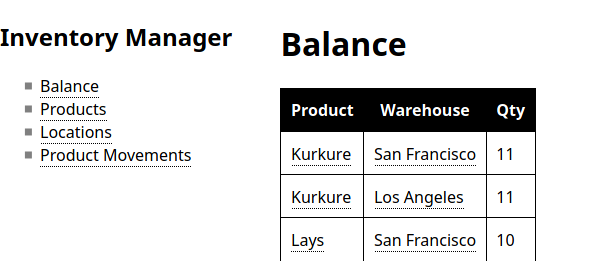
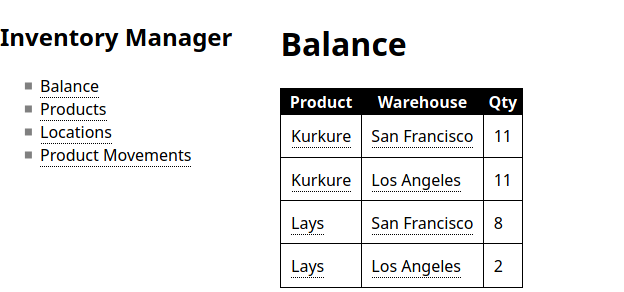
Redesign movement detail and add screenshots (#19)
* ✨ Update balance screenshot

* 💄 Redesign movement detail page

* ✨ 🚚 Add movement detail screenshot

diff --git a/inv_manager/templates/product_movement_detail.html b/inv_manager/templates/product_movement_detail.html
@@ -6,17 +6,32 @@
 
 {% block content %}
 
-<ul>
-  <li>{{ product_movement.id }}</li>
-  <li>
-    <time datetime="{{ product_movement.timestamp }}">
-    </time>
-  </li>
+<table>
+  <tr>
+    <th>Id</th>
+    <td>{{ product_movement.id }}</td>
+  </tr>
+  <tr>
+    <th>Time</th>
+    <td><time datetime="{{ product_movement.timestamp }}"></time></td>
+  </tr>
+  <tr>
+    <th>Name</th>
+    <td>{{ product_movement.product.name }}</td>
+  </tr>
+  <tr>
+    <th>Qty</th>
+    <td>{{ product_movement.qty }}</td>
+  </tr>
+  <tr>
+    <th>From</th>
+    <td>{{ product_movement.from_location.name }}</td>
+  </tr>
 
-  <li>{{ product_movement.product.name }}</li>
-  <li>Qty: {{ product_movement.qty }}</li>
-  <li>From: {{ product_movement.from_location.name }}</li>
-  <li>To: {{ product_movement.to_location.name }}</li>
-</ul>
+  <tr>
+    <th>To</th>
+    <td>{{ product_movement.to_location.name }}</td>
+  </tr>
+</table>
 
 {% endblock %}

diff --git a/README.md b/README.md
@@ -7,4 +7,5 @@ A simple flask app to manage inventory of items in warehouses
 ![Home page](docs/images/Balance.png "Table showing balance of products")
 ![Products list](docs/images/Product_List.png "List of products")
 ![Location list](docs/images/Location_List.png "List of locations")
-![Movement list](docs/images/Product_Movement.png "List of product movements")
+![Movement list](docs/images/Movement_List.png "List of product movements")
+![Movement Detail](docs/images/Movement_Detail.png "Detail of product movement")
